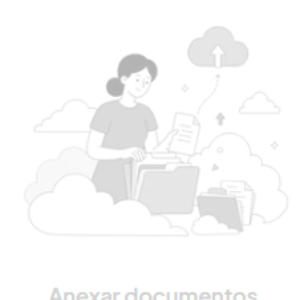
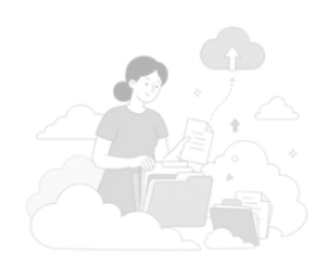
Matricula: recorte so da ilustracao (sem numero/rotulo embutidos)
- Mede as faixas da imagem-fonte e recorta apenas a ilustracao de cada
  passo, excluindo o numero (topo) e o rotulo (base) que vinham colados.
- Fim do numero e do rotulo duplicados na trilha.

diff --git a/inicio.html b/inicio.html
@@ -161,7 +161,7 @@
 
     .wz-steps { width: 392px; flex-shrink: 0; background: #FAFBFC; border-left: 1px solid #EDEFF3; padding: 26px; display: grid; grid-template-columns: 1fr 1fr; gap: 16px 22px; align-content: space-evenly; }
     .wz-step { text-align: center; }
-    .wz-step-thumb { position: relative; aspect-ratio: 1 / 1; border: 1.5px solid #EAEDF1; border-radius: 13px; background: #fff; display: flex; align-items: center; justify-content: center; color: #C7CED9; overflow: hidden; }
+    .wz-step-thumb { position: relative; aspect-ratio: 226 / 190; border: 1.5px solid #EAEDF1; border-radius: 13px; background: #fff; display: flex; align-items: center; justify-content: center; color: #C7CED9; overflow: hidden; }
     .wz-step.active .wz-step-thumb { border-color: #ED6939; box-shadow: 0 0 0 3px rgba(237,105,57,.12); color: #ED6939; }
     .wz-step-thumb svg { width: 72%; height: 72%; }
     .wz-step-img { width: 100%; height: 100%; object-fit: contain; display: block; }
